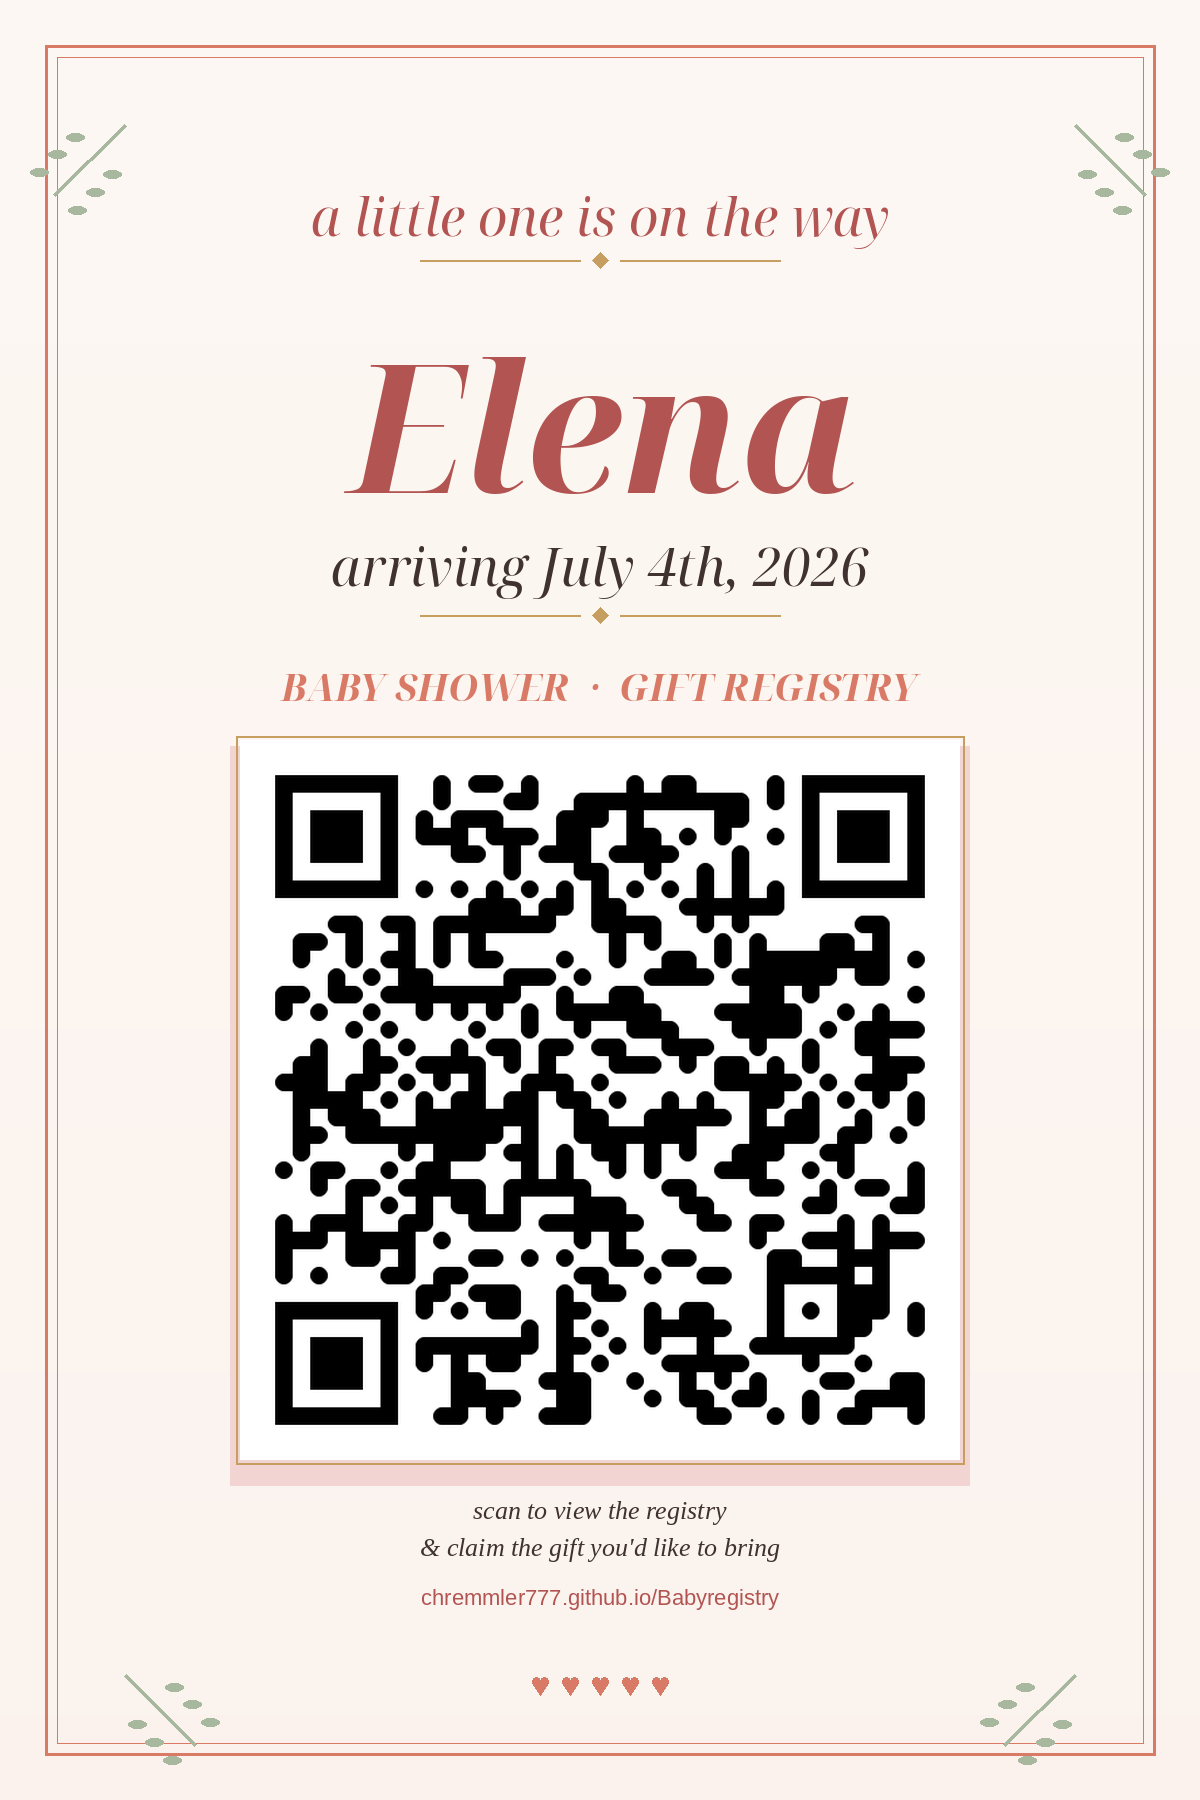
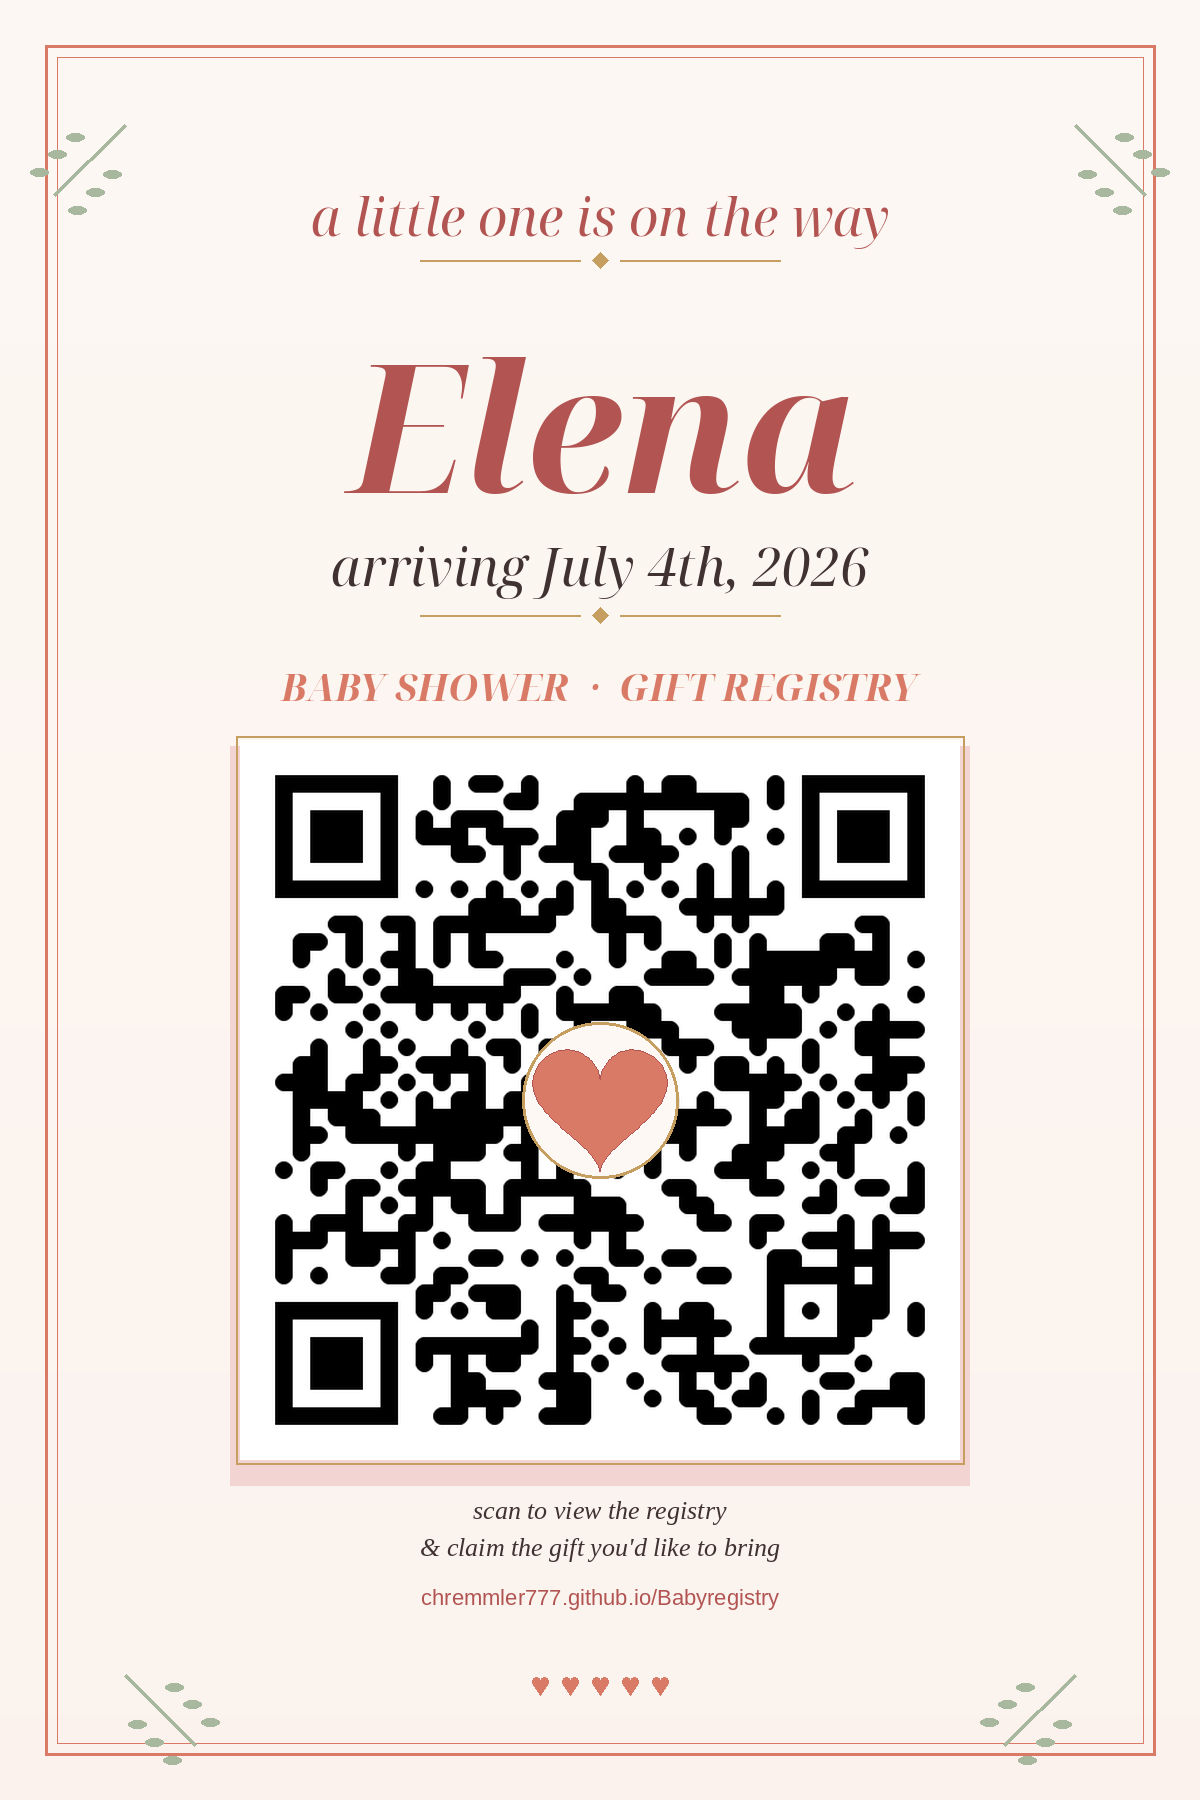
polish: parametric heart curve in QR center

Changed region(s): [[0.4317, 0.56, 0.5858, 0.6533]]

diff --git a/make_poster.py b/make_poster.py
@@ -125,6 +125,24 @@ qr_img = qr.make_image(
 # Size QR to ~720px wide, paste centered
 QR_SIZE = 720
 qr_img = qr_img.resize((QR_SIZE, QR_SIZE), Image.LANCZOS)
+
+# Overlay a heart in the center of the QR (ERROR_CORRECT_H tolerates ~30% obscured)
+qd = ImageDraw.Draw(qr_img)
+cx, cy = QR_SIZE // 2, QR_SIZE // 2
+# Cream disc backing so the heart reads clearly against QR modules
+disc_r = 78
+qd.ellipse([cx - disc_r, cy - disc_r, cx + disc_r, cy + disc_r], fill=CREAM, outline=GOLD, width=3)
+# Heart shape via parametric curve — x = 16 sin³t, y = 13 cost − 5 cos2t − 2 cos3t − cos4t
+heart_scale = 4.2
+heart_pts = []
+steps = 200
+for i in range(steps + 1):
+    t = (i / steps) * 2 * math.pi
+    x = 16 * math.sin(t) ** 3
+    y = -(13 * math.cos(t) - 5 * math.cos(2 * t) - 2 * math.cos(3 * t) - math.cos(4 * t))
+    heart_pts.append((cx + x * heart_scale, cy + y * heart_scale))
+qd.polygon(heart_pts, fill=ROSE, outline=DEEP_ROSE)
+
 qr_x = (W - QR_SIZE) // 2
 qr_y = 740
 # Soft shadow behind QR
